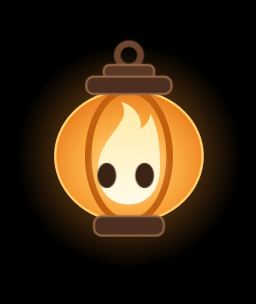
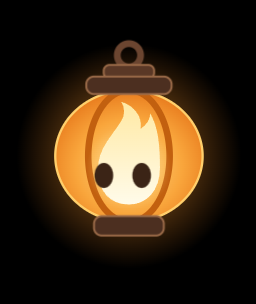
Mascot: done/error states, reserved record/delegate, wider compact glance
- docs/brand/glim-mascot.html updated by the owner: s-done, s-error
  (new "drop" element), glance-c for compact listen, and the rule that
  s-record (red) is screen recording only and s-delegate is Phase 3 only.
- port-lantern.mjs follows `animation-name:` references and keeps names
  the design already prefixed with lantern-; regenerated.
- Mapping: finished -> s-done, error -> s-error, ratelimit -> s-paused,
  sleeping -> s-idle. lanternStateFor returns AppLanternState (reserved
  states excluded); reserved states only via Lantern.showReserved with a
  typed owner; tests fail on any reserved mapping, any reserved name
  outside the mascot module, or any other showReserved caller.
- lantern-check covers all nine states (90 renders) plus done/error
  frames; screenshots refreshed (finished card via PrintWindow).
- CLAUDE.md: the reserved-state rule; prefer PrintWindow for captures.

Changed region(s): [[0.5, 0.5329, 0.625, 0.6217], [0.3438, 0.5329, 0.4688, 0.6217]]

diff --git a/windows/src/mascot/lantern-svg.ts b/windows/src/mascot/lantern-svg.ts
@@ -7,4 +7,4 @@ export const LANTERN_VIEWBOX = "0 0 100 124";
 export const LANTERN_IDS = ["lg-glow","lg-paper","lg-flame","lg-inner","lg-ribbon","lg-soft","lg-clip"] as const;
 
 /** The markup inside the design's <svg>, verbatim apart from the id suffixes. */
-export const LANTERN_MARKUP = "<defs>\r\n<radialGradient id=\"lg-glow-{ID}\" cx=\"50%\" cy=\"50%\" r=\"50%\"><stop offset=\"0\" stop-color=\"#ffb347\" stop-opacity=\"0.75\"></stop><stop offset=\"1\" stop-color=\"#ff8a1f\" stop-opacity=\"0\"></stop></radialGradient>\r\n<radialGradient id=\"lg-paper-{ID}\" cx=\"50%\" cy=\"58%\" r=\"60%\"><stop offset=\"0\" stop-color=\"#ffd884\"></stop><stop offset=\"0.6\" stop-color=\"#f9a63c\"></stop><stop offset=\"1\" stop-color=\"#e7781b\"></stop></radialGradient>\r\n<linearGradient id=\"lg-flame-{ID}\" x1=\"0\" y1=\"0\" x2=\"0\" y2=\"1\"><stop offset=\"0\" stop-color=\"#ffe9a3\"></stop><stop offset=\"1\" stop-color=\"#fffbea\"></stop></linearGradient>\r\n<radialGradient id=\"lg-inner-{ID}\" cx=\"50%\" cy=\"50%\" r=\"50%\"><stop offset=\"0\" stop-color=\"#fff3c4\" stop-opacity=\"0.9\"></stop><stop offset=\"1\" stop-color=\"#ffd27a\" stop-opacity=\"0\"></stop></radialGradient>\r\n<linearGradient id=\"lg-ribbon-{ID}\" x1=\"0\" y1=\"0\" x2=\"1\" y2=\"1\"><stop offset=\"0\" stop-color=\"#fff2c4\" stop-opacity=\"0.95\"></stop><stop offset=\"1\" stop-color=\"#ffb347\" stop-opacity=\"0.15\"></stop></linearGradient>\r\n<filter id=\"lg-soft-{ID}\" x=\"-50%\" y=\"-50%\" width=\"200%\" height=\"200%\"><feGaussianBlur stdDeviation=\"0.9\"></feGaussianBlur></filter>\r\n<clipPath id=\"lg-clip-{ID}\"><ellipse cx=\"50\" cy=\"64\" rx=\"38\" ry=\"34\"></ellipse></clipPath>\r\n</defs>\r\n<g class=\"aura\" fill=\"none\" stroke=\"url(#lg-ribbon-{ID})\" stroke-linecap=\"round\" filter=\"url(#lg-soft-{ID})\">\r\n<path d=\"M-30 44 C-6 12 28 2 50 -6 C74 -15 108 -8 128 20\" stroke-width=\"4.5\" opacity=\"0.75\"></path>\r\n<path d=\"M-34 106 C-10 90 2 122 30 128 C60 135 92 118 132 94\" stroke-width=\"5.5\" opacity=\"0.6\"></path>\r\n<path d=\"M124 38 C140 66 124 94 104 102\" stroke-width=\"3.5\" opacity=\"0.5\"></path>\r\n<path d=\"M-20 74 C-34 56 -26 38 -8 30\" stroke-width=\"3\" opacity=\"0.5\"></path>\r\n</g>\r\n<g class=\"twinkles\" fill=\"#ffe7a8\">\r\n<path class=\"tw\" transform=\"translate(-10 20) scale(1.3)\" d=\"M0 -6 L1.4 -1.4 L6 0 L1.4 1.4 L0 6 L-1.4 1.4 L-6 0 L-1.4 -1.4Z\"></path>\r\n<path class=\"tw tw2\" transform=\"translate(112 60) scale(1.5)\" d=\"M0 -6 L1.4 -1.4 L6 0 L1.4 1.4 L0 6 L-1.4 1.4 L-6 0 L-1.4 -1.4Z\"></path>\r\n<path class=\"tw tw3\" transform=\"translate(-16 92)\" d=\"M0 -6 L1.4 -1.4 L6 0 L1.4 1.4 L0 6 L-1.4 1.4 L-6 0 L-1.4 -1.4Z\"></path>\r\n<path class=\"tw tw4\" transform=\"translate(98 -6) scale(0.9)\" d=\"M0 -6 L1.4 -1.4 L6 0 L1.4 1.4 L0 6 L-1.4 1.4 L-6 0 L-1.4 -1.4Z\"></path>\r\n<circle class=\"mote\" cx=\"18\" cy=\"16\" r=\"1.6\"></circle>\r\n<circle class=\"mote m2\" cx=\"88\" cy=\"108\" r=\"1.4\"></circle>\r\n<circle class=\"mote m3\" cx=\"114\" cy=\"30\" r=\"1.2\"></circle>\r\n<circle class=\"mote m2\" cx=\"-4\" cy=\"62\" r=\"1.3\"></circle>\r\n</g>\r\n<circle class=\"glow\" cx=\"50\" cy=\"64\" r=\"58\" fill=\"url(#lg-glow-{ID})\"></circle>\r\n<circle class=\"ring\" cx=\"50\" cy=\"64\" r=\"44\" fill=\"none\" stroke=\"#ff3b30\" stroke-width=\"2\"></circle>\r\n<g class=\"tone\">\r\n<ellipse class=\"body\" cx=\"50\" cy=\"64\" rx=\"38\" ry=\"34\" fill=\"url(#lg-paper-{ID})\" stroke=\"#ffcf6b\" stroke-width=\"1.2\"></ellipse>\r\n<g class=\"ribs-h\" clip-path=\"url(#lg-clip-{ID})\" stroke=\"#d96f17\" stroke-opacity=\"0.45\" stroke-width=\"1.2\" fill=\"none\"><path d=\"M10 46 Q50 50 90 46\"></path><path d=\"M10 58 Q50 62 90 58\"></path><path d=\"M10 70 Q50 74 90 70\"></path><path d=\"M10 82 Q50 86 90 82\"></path></g>\r\n<ellipse class=\"ribs-v\" cx=\"50\" cy=\"64\" rx=\"21\" ry=\"34\" fill=\"none\" stroke=\"#c2600f\" stroke-width=\"2.4\"></ellipse>\r\n</g>\r\n<g class=\"flame-g\">\r\n<circle class=\"inner\" cx=\"50\" cy=\"70\" r=\"22\" fill=\"url(#lg-inner-{ID})\"></circle><path class=\"flame\" d=\"M50 89 C40 89 34 82 34 71 C34 60 41 54 46 46 C48 43 48 39 46 36 C53 38 57 44 56 50 C59 48 61 45 61 42 C65 49 66 58 66 70 C66 82 59 89 50 89Z\" fill=\"url(#lg-flame-{ID})\"></path><ellipse class=\"core\" cx=\"50\" cy=\"76\" rx=\"10\" ry=\"9\" fill=\"#ffffff\" opacity=\"0.45\"></ellipse>\r\n<g class=\"eyes-wrap\"><g class=\"eyes\" fill=\"#3b2416\"><ellipse class=\"eye\" cx=\"43.5\" cy=\"74\" rx=\"3.2\" ry=\"4.3\"></ellipse><ellipse class=\"eye\" cx=\"56.5\" cy=\"74\" rx=\"3.2\" ry=\"4.3\"></ellipse><circle class=\"hl\" cx=\"44.5\" cy=\"72.4\" r=\"1.1\"></circle><circle class=\"hl\" cx=\"57.5\" cy=\"72.4\" r=\"1.1\"></circle></g><g class=\"brows\" fill=\"none\" stroke=\"#3b2416\" stroke-width=\"1.1\" stroke-linecap=\"round\"><path class=\"brow brow-l\" d=\"M40.5 68 Q43.5 66.6 46.5 68\"></path><path class=\"brow brow-r\" d=\"M53.5 68 Q56.5 66.6 59.5 68\"></path></g><g class=\"happy\" fill=\"none\" stroke=\"#3b2416\" stroke-width=\"1.4\" stroke-linecap=\"round\"><path d=\"M40.6 74.5 Q43.5 71 46.4 74.5\"></path><path d=\"M53.6 74.5 Q56.5 71 59.4 74.5\"></path></g></g><g class=\"face\"><path d=\"M48.2 80 Q50 82 51.8 80\" fill=\"none\" stroke=\"#3b2416\" stroke-width=\"1.2\" stroke-linecap=\"round\"></path></g><g class=\"hands\" fill=\"#fffbea\" stroke=\"#e9a640\" stroke-width=\"0.75\"><g class=\"hand hand-l\"><ellipse cx=\"32.2\" cy=\"76.9\" rx=\"1.05\" ry=\"2.1\" transform=\"rotate(-18 32.2 76.9)\"></ellipse><ellipse cx=\"34\" cy=\"76.3\" rx=\"1.05\" ry=\"2.2\"></ellipse><ellipse cx=\"35.8\" cy=\"76.9\" rx=\"1.05\" ry=\"2.1\" transform=\"rotate(18 35.8 76.9)\"></ellipse><ellipse cx=\"37.6\" cy=\"79.4\" rx=\"1\" ry=\"1.9\" transform=\"rotate(55 37.6 79.4)\"></ellipse><circle cx=\"34\" cy=\"80.2\" r=\"3.2\"></circle></g><g class=\"hand hand-r\"><ellipse cx=\"64.2\" cy=\"76.9\" rx=\"1.05\" ry=\"2.1\" transform=\"rotate(-18 64.2 76.9)\"></ellipse><ellipse cx=\"66\" cy=\"76.3\" rx=\"1.05\" ry=\"2.2\"></ellipse><ellipse cx=\"67.8\" cy=\"76.9\" rx=\"1.05\" ry=\"2.1\" transform=\"rotate(18 67.8 76.9)\"></ellipse><ellipse cx=\"62.4\" cy=\"79.4\" rx=\"1\" ry=\"1.9\" transform=\"rotate(-55 62.4 79.4)\"></ellipse><circle cx=\"66\" cy=\"80.2\" r=\"3.2\"></circle></g></g>\r\n</g>\r\n<g class=\"embers\" fill=\"#fff1b8\"><circle cx=\"30\" cy=\"58\" r=\"1.6\"></circle><circle cx=\"70\" cy=\"62\" r=\"1.4\"></circle><circle cx=\"66\" cy=\"48\" r=\"1.1\"></circle></g>\r\n<g class=\"hw\">\r\n<circle cx=\"50\" cy=\"12\" r=\"6\" fill=\"none\" stroke=\"#6b4530\" stroke-width=\"3.5\"></circle>\r\n<rect x=\"37\" y=\"17\" width=\"26\" height=\"7\" rx=\"3\" fill=\"#5a3826\" stroke=\"#9a6a48\" stroke-width=\"1\"></rect>\r\n<rect x=\"28\" y=\"23\" width=\"44\" height=\"9\" rx=\"4\" fill=\"#4c2f20\" stroke=\"#9a6a48\" stroke-width=\"1\"></rect>\r\n<rect x=\"32\" y=\"95\" width=\"36\" height=\"10\" rx=\"4\" fill=\"#4c2f20\" stroke=\"#9a6a48\" stroke-width=\"1\"></rect>\r\n</g>\r\n<path class=\"spark\" d=\"M62 34 L63.5 38.5 L68 40 L63.5 41.5 L62 46 L60.5 41.5 L56 40 L60.5 38.5Z\" fill=\"#fff4c2\"></path>\r\n<path class=\"lift\" d=\"M50 15 L51.3 18.7 L55 20 L51.3 21.3 L50 25 L48.7 21.3 L45 20 L48.7 18.7Z\" fill=\"#fff4c2\"></path>";
+export const LANTERN_MARKUP = "<defs>\n<radialGradient id=\"lg-glow-{ID}\" cx=\"50%\" cy=\"50%\" r=\"50%\"><stop offset=\"0\" stop-color=\"#ffb347\" stop-opacity=\"0.75\"></stop><stop offset=\"1\" stop-color=\"#ff8a1f\" stop-opacity=\"0\"></stop></radialGradient>\n<radialGradient id=\"lg-paper-{ID}\" cx=\"50%\" cy=\"58%\" r=\"60%\"><stop offset=\"0\" stop-color=\"#ffd884\"></stop><stop offset=\"0.6\" stop-color=\"#f9a63c\"></stop><stop offset=\"1\" stop-color=\"#e7781b\"></stop></radialGradient>\n<linearGradient id=\"lg-flame-{ID}\" x1=\"0\" y1=\"0\" x2=\"0\" y2=\"1\"><stop offset=\"0\" stop-color=\"#ffe9a3\"></stop><stop offset=\"1\" stop-color=\"#fffbea\"></stop></linearGradient>\n<radialGradient id=\"lg-inner-{ID}\" cx=\"50%\" cy=\"50%\" r=\"50%\"><stop offset=\"0\" stop-color=\"#fff3c4\" stop-opacity=\"0.9\"></stop><stop offset=\"1\" stop-color=\"#ffd27a\" stop-opacity=\"0\"></stop></radialGradient>\n<linearGradient id=\"lg-ribbon-{ID}\" x1=\"0\" y1=\"0\" x2=\"1\" y2=\"1\"><stop offset=\"0\" stop-color=\"#fff2c4\" stop-opacity=\"0.95\"></stop><stop offset=\"1\" stop-color=\"#ffb347\" stop-opacity=\"0.15\"></stop></linearGradient>\n<filter id=\"lg-soft-{ID}\" x=\"-50%\" y=\"-50%\" width=\"200%\" height=\"200%\"><feGaussianBlur stdDeviation=\"0.9\"></feGaussianBlur></filter>\n<clipPath id=\"lg-clip-{ID}\"><ellipse cx=\"50\" cy=\"64\" rx=\"38\" ry=\"34\"></ellipse></clipPath>\n</defs>\n<g class=\"aura\" fill=\"none\" stroke=\"url(#lg-ribbon-{ID})\" stroke-linecap=\"round\" filter=\"url(#lg-soft-{ID})\">\n<path d=\"M-30 44 C-6 12 28 2 50 -6 C74 -15 108 -8 128 20\" stroke-width=\"4.5\" opacity=\"0.75\"></path>\n<path d=\"M-34 106 C-10 90 2 122 30 128 C60 135 92 118 132 94\" stroke-width=\"5.5\" opacity=\"0.6\"></path>\n<path d=\"M124 38 C140 66 124 94 104 102\" stroke-width=\"3.5\" opacity=\"0.5\"></path>\n<path d=\"M-20 74 C-34 56 -26 38 -8 30\" stroke-width=\"3\" opacity=\"0.5\"></path>\n</g>\n<g class=\"twinkles\" fill=\"#ffe7a8\">\n<path class=\"tw\" transform=\"translate(-10 20) scale(1.3)\" d=\"M0 -6 L1.4 -1.4 L6 0 L1.4 1.4 L0 6 L-1.4 1.4 L-6 0 L-1.4 -1.4Z\"></path>\n<path class=\"tw tw2\" transform=\"translate(112 60) scale(1.5)\" d=\"M0 -6 L1.4 -1.4 L6 0 L1.4 1.4 L0 6 L-1.4 1.4 L-6 0 L-1.4 -1.4Z\"></path>\n<path class=\"tw tw3\" transform=\"translate(-16 92)\" d=\"M0 -6 L1.4 -1.4 L6 0 L1.4 1.4 L0 6 L-1.4 1.4 L-6 0 L-1.4 -1.4Z\"></path>\n<path class=\"tw tw4\" transform=\"translate(98 -6) scale(0.9)\" d=\"M0 -6 L1.4 -1.4 L6 0 L1.4 1.4 L0 6 L-1.4 1.4 L-6 0 L-1.4 -1.4Z\"></path>\n<circle class=\"mote\" cx=\"18\" cy=\"16\" r=\"1.6\"></circle>\n<circle class=\"mote m2\" cx=\"88\" cy=\"108\" r=\"1.4\"></circle>\n<circle class=\"mote m3\" cx=\"114\" cy=\"30\" r=\"1.2\"></circle>\n<circle class=\"mote m2\" cx=\"-4\" cy=\"62\" r=\"1.3\"></circle>\n</g>\n<circle class=\"glow\" cx=\"50\" cy=\"64\" r=\"58\" fill=\"url(#lg-glow-{ID})\"></circle>\n<circle class=\"ring\" cx=\"50\" cy=\"64\" r=\"44\" fill=\"none\" stroke=\"#ff3b30\" stroke-width=\"2\"></circle>\n<g class=\"tone\">\n<ellipse class=\"body\" cx=\"50\" cy=\"64\" rx=\"38\" ry=\"34\" fill=\"url(#lg-paper-{ID})\" stroke=\"#ffcf6b\" stroke-width=\"1.2\"></ellipse>\n<g class=\"ribs-h\" clip-path=\"url(#lg-clip-{ID})\" stroke=\"#d96f17\" stroke-opacity=\"0.45\" stroke-width=\"1.2\" fill=\"none\"><path d=\"M10 46 Q50 50 90 46\"></path><path d=\"M10 58 Q50 62 90 58\"></path><path d=\"M10 70 Q50 74 90 70\"></path><path d=\"M10 82 Q50 86 90 82\"></path></g>\n<ellipse class=\"ribs-v\" cx=\"50\" cy=\"64\" rx=\"21\" ry=\"34\" fill=\"none\" stroke=\"#c2600f\" stroke-width=\"2.4\"></ellipse>\n</g>\n<g class=\"flame-g\">\n<circle class=\"inner\" cx=\"50\" cy=\"70\" r=\"22\" fill=\"url(#lg-inner-{ID})\"></circle><path class=\"flame\" d=\"M50 89 C40 89 34 82 34 71 C34 60 41 54 46 46 C48 43 48 39 46 36 C53 38 57 44 56 50 C59 48 61 45 61 42 C65 49 66 58 66 70 C66 82 59 89 50 89Z\" fill=\"url(#lg-flame-{ID})\"></path><ellipse class=\"core\" cx=\"50\" cy=\"76\" rx=\"10\" ry=\"9\" fill=\"#ffffff\" opacity=\"0.45\"></ellipse>\n<g class=\"eyes-wrap\"><g class=\"eyes\" fill=\"#3b2416\"><ellipse class=\"eye\" cx=\"43.5\" cy=\"74\" rx=\"3.2\" ry=\"4.3\"></ellipse><ellipse class=\"eye\" cx=\"56.5\" cy=\"74\" rx=\"3.2\" ry=\"4.3\"></ellipse><circle class=\"hl\" cx=\"44.5\" cy=\"72.4\" r=\"1.1\"></circle><circle class=\"hl\" cx=\"57.5\" cy=\"72.4\" r=\"1.1\"></circle></g><g class=\"brows\" fill=\"none\" stroke=\"#3b2416\" stroke-width=\"1.1\" stroke-linecap=\"round\"><path class=\"brow brow-l\" d=\"M40.5 68 Q43.5 66.6 46.5 68\"></path><path class=\"brow brow-r\" d=\"M53.5 68 Q56.5 66.6 59.5 68\"></path></g><g class=\"happy\" fill=\"none\" stroke=\"#3b2416\" stroke-width=\"1.4\" stroke-linecap=\"round\"><path d=\"M40.6 74.5 Q43.5 71 46.4 74.5\"></path><path d=\"M53.6 74.5 Q56.5 71 59.4 74.5\"></path></g></g><g class=\"face\"><path d=\"M48.2 80 Q50 82 51.8 80\" fill=\"none\" stroke=\"#3b2416\" stroke-width=\"1.2\" stroke-linecap=\"round\"></path></g><g class=\"hands\" fill=\"#fffbea\" stroke=\"#e9a640\" stroke-width=\"0.75\"><g class=\"hand hand-l\"><ellipse cx=\"32.2\" cy=\"76.9\" rx=\"1.05\" ry=\"2.1\" transform=\"rotate(-18 32.2 76.9)\"></ellipse><ellipse cx=\"34\" cy=\"76.3\" rx=\"1.05\" ry=\"2.2\"></ellipse><ellipse cx=\"35.8\" cy=\"76.9\" rx=\"1.05\" ry=\"2.1\" transform=\"rotate(18 35.8 76.9)\"></ellipse><ellipse cx=\"37.6\" cy=\"79.4\" rx=\"1\" ry=\"1.9\" transform=\"rotate(55 37.6 79.4)\"></ellipse><circle cx=\"34\" cy=\"80.2\" r=\"3.2\"></circle></g><g class=\"hand hand-r\"><ellipse cx=\"64.2\" cy=\"76.9\" rx=\"1.05\" ry=\"2.1\" transform=\"rotate(-18 64.2 76.9)\"></ellipse><ellipse cx=\"66\" cy=\"76.3\" rx=\"1.05\" ry=\"2.2\"></ellipse><ellipse cx=\"67.8\" cy=\"76.9\" rx=\"1.05\" ry=\"2.1\" transform=\"rotate(18 67.8 76.9)\"></ellipse><ellipse cx=\"62.4\" cy=\"79.4\" rx=\"1\" ry=\"1.9\" transform=\"rotate(-55 62.4 79.4)\"></ellipse><circle cx=\"66\" cy=\"80.2\" r=\"3.2\"></circle></g></g>\n</g>\n<g class=\"embers\" fill=\"#fff1b8\"><circle cx=\"30\" cy=\"58\" r=\"1.6\"></circle><circle cx=\"70\" cy=\"62\" r=\"1.4\"></circle><circle cx=\"66\" cy=\"48\" r=\"1.1\"></circle></g>\n<g class=\"hw\">\n<circle cx=\"50\" cy=\"12\" r=\"6\" fill=\"none\" stroke=\"#6b4530\" stroke-width=\"3.5\"></circle>\n<rect x=\"37\" y=\"17\" width=\"26\" height=\"7\" rx=\"3\" fill=\"#5a3826\" stroke=\"#9a6a48\" stroke-width=\"1\"></rect>\n<rect x=\"28\" y=\"23\" width=\"44\" height=\"9\" rx=\"4\" fill=\"#4c2f20\" stroke=\"#9a6a48\" stroke-width=\"1\"></rect>\n<rect x=\"32\" y=\"95\" width=\"36\" height=\"10\" rx=\"4\" fill=\"#4c2f20\" stroke=\"#9a6a48\" stroke-width=\"1\"></rect>\n</g>\n<path class=\"spark\" d=\"M62 34 L63.5 38.5 L68 40 L63.5 41.5 L62 46 L60.5 41.5 L56 40 L60.5 38.5Z\" fill=\"#fff4c2\"></path>\n<path class=\"lift\" d=\"M50 15 L51.3 18.7 L55 20 L51.3 21.3 L50 25 L48.7 21.3 L45 20 L48.7 18.7Z\" fill=\"#fff4c2\"></path><path class=\"drop\" d=\"M64 56 C64 56 60.6 60.4 60.6 62.6 C60.6 64.5 62.1 66 64 66 C65.9 66 67.4 64.5 67.4 62.6 C67.4 60.4 64 56 64 56Z\" fill=\"#cfe9ff\" stroke=\"#7fb4e0\" stroke-width=\"0.6\"></path>";

diff --git a/docs/brand/glim-mascot.html b/docs/brand/glim-mascot.html
@@ -1,9 +1,12 @@
 <!doctype html>
 <html lang="en"><head><meta charset="utf-8"><title>Glim mascot (approved)</title>
 <!--
-Glim mascot - approved design, reference implementation.
-- One SVG; state = one class on the <svg>: s-idle, s-listen, s-think, s-suggest, s-record, s-paused, s-delegate
-- Add class "compact" for sizes under 48px (hides ribs, embers, face details, hands, brows; enlarges eyes).
+Glim mascot - approved design, reference implementation. Source of truth.
+- One SVG; state = one class on the <svg>: s-idle, s-listen, s-think, s-suggest, s-record, s-paused, s-delegate, s-done, s-error
+- RED IS RESERVED FOR s-record (screen recording). No other app state may map to s-record.
+- s-delegate is reserved for Phase 3 (data leaving the machine after approval). Do not use it for "finished"; use s-done.
+- s-error = dim, droopy, worried brows, sweat drop. Never red.
+- Add class "compact" for sizes under 48px (hides ribs, embers, face details, hands, brows; enlarges eyes; wider listen glance).
 - The "aura" and "twinkles" groups (ribbons + sparkles) are for large/icon contexts only; remove them in the notch sprite.
 - Respects prefers-reduced-motion.
 -->
@@ -84,6 +87,24 @@ button{font:inherit;padding:8px 14px;border-radius:999px;border:1px solid #9a6a4
 .mote{transform-box:fill-box;animation:float 5s ease-in-out infinite}
 .m2{animation-delay:1.6s}.m3{animation-delay:3.2s}
 @keyframes float{0%{opacity:0;transform:translateY(6px)}30%{opacity:.9}100%{opacity:0;transform:translateY(-14px)}}
+.lantern .drop{opacity:0;transform-box:fill-box;transform-origin:50% 0}
+.s-error .tone{filter:saturate(.55) brightness(.8)}
+.s-error .glow{opacity:.3}
+.s-error .flame-g{animation:lantern-shiver 2.2s ease-in-out infinite}
+@keyframes lantern-shiver{0%,100%{transform:scale(1,.86)}50%{transform:scale(.97,.82)}}
+.s-error .eye{transform:scale(.85,.8)}
+.s-error .brows{opacity:1}
+.s-error .brow-l{transform:translateY(-1.2px) rotate(-14deg)}
+.s-error .brow-r{transform:translateY(-1.2px) rotate(14deg)}
+.s-error .drop{animation:lantern-sweat 2.6s ease-in infinite}
+@keyframes lantern-sweat{0%{opacity:0;transform:translateY(-2px)}20%{opacity:1}75%{opacity:1;transform:translateY(5px)}100%{opacity:0;transform:translateY(7px)}}
+.s-done .glow{opacity:1}
+.s-done .eye,.s-done .hl{opacity:0}
+.s-done .happy{opacity:1}
+.s-done .flame-g{animation:lantern-hop 1.3s ease-in-out infinite}
+@keyframes lantern-hop{0%,100%{transform:translateY(0) scale(1)}35%{transform:translateY(-3px) scale(1.03,.97)}60%{transform:translateY(0) scale(.98,1.03)}}
+.compact.s-listen .eyes{animation-name:glance-c}
+@keyframes glance-c{0%,40%{transform:translateX(0) scaleY(1)}48%{transform:translateX(-2.6px) scaleY(1)}68%{transform:translateX(2.4px) scaleY(1)}86%{transform:translateX(0) scaleY(1)}90%{transform:translateX(0) scaleY(.1)}94%,100%{transform:translateX(0) scaleY(1)}}
 @media (prefers-reduced-motion: reduce){.lantern *{animation:none !important}}
 
 </style></head><body>
@@ -132,10 +153,10 @@ button{font:inherit;padding:8px 14px;border-radius:999px;border:1px solid #9a6a4
 <rect x="32" y="95" width="36" height="10" rx="4" fill="#4c2f20" stroke="#9a6a48" stroke-width="1"></rect>
 </g>
 <path class="spark" d="M62 34 L63.5 38.5 L68 40 L63.5 41.5 L62 46 L60.5 41.5 L56 40 L60.5 38.5Z" fill="#fff4c2"></path>
-<path class="lift" d="M50 15 L51.3 18.7 L55 20 L51.3 21.3 L50 25 L48.7 21.3 L45 20 L48.7 18.7Z" fill="#fff4c2"></path>
+<path class="lift" d="M50 15 L51.3 18.7 L55 20 L51.3 21.3 L50 25 L48.7 21.3 L45 20 L48.7 18.7Z" fill="#fff4c2"></path><path class="drop" d="M64 56 C64 56 60.6 60.4 60.6 62.6 C60.6 64.5 62.1 66 64 66 C65.9 66 67.4 64.5 67.4 62.6 C67.4 60.4 64 56 64 56Z" fill="#cfe9ff" stroke="#7fb4e0" stroke-width="0.6"></path>
 </svg>
-<div class="controls"><button onclick="setState('s-idle')">idle</button><button onclick="setState('s-listen')">listen</button><button onclick="setState('s-think')">think</button><button onclick="setState('s-suggest')">suggest</button><button onclick="setState('s-record')">record</button><button onclick="setState('s-paused')">paused</button><button onclick="setState('s-delegate')">delegate</button><button onclick="document.getElementById('glim').classList.toggle('compact')">toggle compact</button></div>
+<div class="controls"><button onclick="setState('s-idle')">idle</button><button onclick="setState('s-listen')">listen</button><button onclick="setState('s-think')">think</button><button onclick="setState('s-suggest')">suggest</button><button onclick="setState('s-record')">record</button><button onclick="setState('s-paused')">paused</button><button onclick="setState('s-delegate')">delegate</button><button onclick="setState('s-done')">done</button><button onclick="setState('s-error')">error</button><button onclick="document.getElementById('glim').classList.toggle('compact')">toggle compact</button></div>
 <script>
-function setState(s){const el=document.getElementById('glim');el.classList.remove('s-idle','s-listen','s-think','s-suggest','s-record','s-paused','s-delegate');el.classList.add(s);}
+function setState(s){const el=document.getElementById('glim');el.classList.remove('s-idle','s-listen','s-think','s-suggest','s-record','s-paused','s-delegate','s-done','s-error');el.classList.add(s);}
 </script>
 </body></html>

diff --git a/windows/src/mascot/lantern.ts b/windows/src/mascot/lantern.ts
@@ -3,7 +3,7 @@
 // scripts/port-lantern.mjs (lantern-svg.ts, lantern.css); this module only
 // instantiates them. Its look is the design's: don't restyle it here.
 //
-// - State is one class on the <svg>: s-idle … s-delegate. CSS transitions and
+// - State is one class on the <svg>: s-idle … s-error. CSS transitions and
 //   animations do all the motion; changing state is swapping that class.
 // - "compact" is added below COMPACT_BELOW_PX of rendered height (fewer
 //   details, bigger eyes), as the design specifies.
@@ -15,8 +15,30 @@
 import { LANTERN_IDS, LANTERN_MARKUP, LANTERN_VIEWBOX } from "./lantern-svg";
 import type { BotStateName } from "../core/layout";
 
-export const LANTERN_STATES = ["idle", "listen", "think", "suggest", "record", "paused", "delegate"] as const;
+export const LANTERN_STATES = [
+  "idle", "listen", "think", "suggest", "record", "paused", "delegate", "done", "error",
+] as const;
 export type LanternState = (typeof LANTERN_STATES)[number];
+
+/**
+ * States the design reserves, and the one feature allowed to show each
+ * (docs/brand/glim-mascot.html, CLAUDE.md): red s-record is screen recording
+ * only; s-delegate is Phase 3 data leaving the machine only. Neither feature
+ * exists yet, so no app state maps to them. They can only be shown through
+ * `Lantern.showReserved`, which names its owner; tests/lantern.test.mjs checks
+ * who calls it.
+ */
+export const RESERVED_LANTERN_STATES = {
+  record: "screen-recording",
+  delegate: "phase3-delegation",
+} as const;
+export type ReservedLanternState = keyof typeof RESERVED_LANTERN_STATES;
+/** Every state an app state may map to. */
+export type AppLanternState = Exclude<LanternState, ReservedLanternState>;
+
+export function isReservedLanternState(s: LanternState): s is ReservedLanternState {
+  return s in RESERVED_LANTERN_STATES;
+}
 
 export type LanternDetail = "full" | "notch";
 
@@ -63,15 +85,24 @@ export function lanternClass(state: LanternState, heightPx: number): string {
  * - idle → s-idle in the notch, s-listen when the island is open
  * - working, thinking, searching → s-think (an agent is busy)
  * - approval, question → s-suggest (waiting for your answer)
- * - finished → s-delegate (happy eyes, both hands up: done)
- * - error → s-record (the red hue and pulsing ring are the design's only alert)
- * - ratelimit, sleeping → s-paused (lantern dimmed, flame out)
+ * - finished → s-done (happy eyes, a hop)
+ * - error → s-error (dim, droopy, worried brows, a sweat drop; never red)
+ * - ratelimit → s-paused: the agent hit its usage limit and can't work until it
+ *   resets — "not working right now", dimmed with the flame out
+ * - sleeping → s-idle: nothing is blocked, Glim is just resting (only the
+ *   desktop character ever sets it, after a stretch with no agent activity);
+ *   s-idle's dozing eyes and slow breathing are that
  * - dizzy (the shake gag) → s-think (the swaying flame)
+ *
+ * Never s-record or s-delegate: those belong to features, not app states
+ * (RESERVED_LANTERN_STATES), and the return type excludes them.
  */
-export function lanternStateFor(state: BotStateName, open: boolean): LanternState {
+export function lanternStateFor(state: BotStateName, open: boolean): AppLanternState {
   switch (state) {
     case "idle":
       return open ? "listen" : "idle";
+    case "sleeping":
+      return "idle";
     case "working":
     case "thinking":
     case "searching":
@@ -81,11 +112,10 @@ export function lanternStateFor(state: BotStateName, open: boolean): LanternStat
     case "question":
       return "suggest";
     case "finished":
-      return "delegate";
+      return "done";
     case "error":
-      return "record";
+      return "error";
     case "ratelimit":
-    case "sleeping":
       return "paused";
   }
 }
@@ -100,7 +130,7 @@ export class Lantern {
   private stateName: LanternState;
   private heightPx = 0;
 
-  constructor(opts: { detail: LanternDetail; state?: LanternState; heightPx?: number }) {
+  constructor(opts: { detail: LanternDetail; state?: AppLanternState; heightPx?: number }) {
     this.uid = `g${++instances}`;
     this.stateName = opts.state ?? "idle";
     this.el = document.createElementNS(SVG_NS, "svg");
@@ -114,7 +144,22 @@ export class Lantern {
     return this.stateName;
   }
 
-  set state(next: LanternState) {
+  /** Shows an app state. Reserved states can't be passed here. */
+  show(next: AppLanternState) {
+    this.set(next);
+  }
+
+  /**
+   * Shows a reserved state, for its owner only: `record` for screen recording,
+   * `delegate` for Phase 3 delegation, either for the dev preview switch
+   * (`--mascot-state`). tests/lantern.test.mjs fails on any other caller.
+   */
+  showReserved<S extends ReservedLanternState>(state: S, owner: (typeof RESERVED_LANTERN_STATES)[S] | "dev-preview") {
+    void owner;
+    this.set(state);
+  }
+
+  private set(next: LanternState) {
     if (next === this.stateName) return;
     this.stateName = next;
     this.apply();

diff --git a/windows/src/mascot/lantern.css b/windows/src/mascot/lantern.css
@@ -74,4 +74,22 @@
 .lantern .m2{animation-delay:1.6s}
 .lantern .m3{animation-delay:3.2s}
 @keyframes lantern-float{0%{opacity:0;transform:translateY(6px)}30%{opacity:.9}100%{opacity:0;transform:translateY(-14px)}}
+.lantern .drop{opacity:0;transform-box:fill-box;transform-origin:50% 0}
+.lantern.s-error .tone{filter:saturate(.55) brightness(.8)}
+.lantern.s-error .glow{opacity:.3}
+.lantern.s-error .flame-g{animation:lantern-shiver 2.2s ease-in-out infinite}
+@keyframes lantern-shiver{0%,100%{transform:scale(1,.86)}50%{transform:scale(.97,.82)}}
+.lantern.s-error .eye{transform:scale(.85,.8)}
+.lantern.s-error .brows{opacity:1}
+.lantern.s-error .brow-l{transform:translateY(-1.2px) rotate(-14deg)}
+.lantern.s-error .brow-r{transform:translateY(-1.2px) rotate(14deg)}
+.lantern.s-error .drop{animation:lantern-sweat 2.6s ease-in infinite}
+@keyframes lantern-sweat{0%{opacity:0;transform:translateY(-2px)}20%{opacity:1}75%{opacity:1;transform:translateY(5px)}100%{opacity:0;transform:translateY(7px)}}
+.lantern.s-done .glow{opacity:1}
+.lantern.s-done .eye,.lantern.s-done .hl{opacity:0}
+.lantern.s-done .happy{opacity:1}
+.lantern.s-done .flame-g{animation:lantern-hop 1.3s ease-in-out infinite}
+@keyframes lantern-hop{0%,100%{transform:translateY(0) scale(1)}35%{transform:translateY(-3px) scale(1.03,.97)}60%{transform:translateY(0) scale(.98,1.03)}}
+.lantern.compact.s-listen .eyes{animation-name:lantern-glance-c}
+@keyframes lantern-glance-c{0%,40%{transform:translateX(0) scaleY(1)}48%{transform:translateX(-2.6px) scaleY(1)}68%{transform:translateX(2.4px) scaleY(1)}86%{transform:translateX(0) scaleY(1)}90%{transform:translateX(0) scaleY(.1)}94%,100%{transform:translateX(0) scaleY(1)}}
 @media (prefers-reduced-motion: reduce){.lantern *{animation:none !important}}

diff --git a/windows/src/island/island.ts b/windows/src/island/island.ts
@@ -28,6 +28,7 @@ import {
   LANTERN_DRAWN_TOP,
   LANTERN_HEIGHT_PER_DIAMETER,
   Lantern,
+  isReservedLanternState,
   lanternStateFor,
   type LanternState,
 } from "../mascot/lantern";
@@ -962,7 +963,9 @@ export class Island {
     el.style.left = `${this.botCx.value - 50 * unit}px`;
     el.style.top = `${this.botCy.value + diameter / 2 - LANTERN_DRAWN_BOTTOM * unit}px`;
     this.lantern.setHeight(hPx);
-    this.lantern.state = this.forcedLantern ?? lanternStateFor(this.engine.state, State.mode === "expanded");
+    const forced = this.forcedLantern;
+    if (forced && isReservedLanternState(forced)) this.lantern.showReserved(forced, "dev-preview");
+    else this.lantern.show(forced ?? lanternStateFor(this.engine.state, State.mode === "expanded"));
   }
 
   /** BotCanvasView.lookX / lookY — tanh of the distance to the bot. */

diff --git a/windows/src-tauri/src/lib.rs b/windows/src-tauri/src/lib.rs
@@ -543,7 +543,7 @@ fn open_settings_window(app: AppHandle) {
     show_settings_window(&app);
 }
 
-/// `glim.exe --mascot-state <idle|listen|think|suggest|record|paused|delegate|auto>`,
+/// `glim.exe --mascot-state <idle|listen|think|suggest|record|paused|delegate|done|error|auto>`,
 /// forwarded to the running Glim by the single-instance plugin: shows the
 /// lantern in that state (`auto` follows the app again). A dev tool for
 /// checking each state without touching the mouse or keyboard, so it only works

diff --git a/PROJECT_STATUS.md b/PROJECT_STATUS.md
@@ -88,6 +88,8 @@ Done in the island's notch on branch `mascot-lantern` (2026-10-09). Source of tr
   - `windows/src/mascot/lantern.ts` is the component (`new Lantern({ detail, state })`): state = one class `s-<state>` on the `<svg>`; `compact` below 48 px of rendered height; detail `"notch"` drops the `aura` and `twinkles` groups, `"full"` keeps them (large contexts: settings, onboarding, about); gradient/filter/clipPath ids get a per-instance suffix; the design's `prefers-reduced-motion` rule is kept.
   - What the port changes, and only this: page-level CSS dropped; selectors the design left unscoped are scoped to `.lantern` (same relative order and specificity inside the lantern); keyframes prefixed `lantern-` (the app already had a global `@keyframes pulse`).
   - Wired in `windows/src/island/island.ts` (`drawBot`): the lantern replaces the placeholder orb, drawn 1.2× the old orb's diameter tall with its base on the orb's bottom edge (24 px in the 26 px notch pill → compact; 53–79 px in the expanded cards → full detail minus aura/twinkles). The engine (`mochi/engine.ts`) still runs for its timers but no longer draws in the island.
+- **Nine states** (design updated 2026-10-09): `s-idle`, `s-listen`, `s-think`, `s-suggest`, `s-record`, `s-paused`, `s-delegate`, `s-done` (happy eyes, a hop), `s-error` (dim, droopy, worried brows, a sweat drop — never red). Compact uses a wider listen glance (`glance-c`).
+- **Reserved states — never reuse them for anything else** (design file header, CLAUDE.md): red `s-record` = screen recording only; `s-delegate` = Phase 3 data leaving the machine only. Neither feature exists yet, so no app state maps to them. Enforced three ways: `lanternStateFor` returns `AppLanternState` (reserved states excluded, so `tsc` rejects a mapping to them); the only way to show one is `Lantern.showReserved(state, owner)` with a typed owner (`"screen-recording"` / `"phase3-delegation"`, or `"dev-preview"` for the dev switch); `tests/lantern.test.mjs` fails if any island state (read from the `BotStateName` union) maps to one, if a reserved state name appears in `src/` outside the mascot module, or if anything but the allowed callers calls `showReserved`. When the recording or delegation feature lands, add its file to `SHOWS_RESERVED` in that test.
 - **State mapping** (`lanternStateFor`, island state → lantern):
 
   | Island state | Lantern |
@@ -96,20 +98,22 @@ Done in the island's notch on branch `mascot-lantern` (2026-10-09). Source of tr
   | `idle` (island open) | `s-listen` |
   | `working`, `thinking`, `searching` | `s-think` |
   | `approval`, `question` (waiting for your answer) | `s-suggest` |
-  | `finished` | `s-delegate` (happy eyes, hands up) |
-  | `error` | `s-record` (the design's only red/alert look) |
-  | `ratelimit`, `sleeping` | `s-paused` |
+  | `finished` | `s-done` |
+  | `error` | `s-error` |
+  | `ratelimit` | `s-paused` — the agent hit its usage limit and can't work until it resets: "not working right now" |
+  | `sleeping` | `s-idle` — only the desktop character sets it, after a stretch with no agent activity; nothing is blocked, Glim is resting, which is s-idle's dozing look |
   | `dizzy` (shake gag) | `s-think` |
 
-  Not mapped: the emotes (love, surprised, proud, wink, yawn, happy, annoyed), the integration/plan body tint (`engine.bodyColor`), and the drop sequence's morph — the lantern ignores them. `s-record` and `s-delegate` keep their design names for their Phase 1/3 meanings; `error` and `finished` borrow them until those phases exist.
+  Not mapped: the emotes (love, surprised, proud, wink, yawn, happy, annoyed), the integration/plan body tint (`engine.bodyColor`), and the drop sequence's morph — the lantern ignores them.
 - **Still the placeholder** (not the notch, not in this PR): the desktop character window (`desktop/`), the per-session mini bots (`mochi/minibots.ts`), the greeting (`mochi/greeting.ts`), the drop sequence (`upload/canvas.ts`) and the recap image (`recap/share.ts`).
-- **Dev-only state switch:** start Glim with `GLIM_DEV=1` in its environment, then `glim.exe --mascot-state <idle|listen|think|suggest|record|paused|delegate|auto>` forwards to the running instance (single-instance plugin) and shows that state in the notch; `auto` follows the app again. Ignored without `GLIM_DEV=1`. No hotkey.
-- **Checks:** `npm run check:lantern` (`windows/dev/lantern-check.mjs`, headless Edge over the DevTools protocol, also in `windows-ci.yml`): 70 renders (7 states × full/compact × 5 frozen instants) compared with the design page pixel by pixel (≤ 2/255 rounding allowed, every exception printed; a visible change fails); `prefers-reduced-motion: reduce` emulated through the protocol stops every animation in every state; notch-size frames of the blinks and glances. Mutation-tested: a changed colour and a deleted reduced-motion rule both fail.
+- **Dev-only state switch:** start Glim with `GLIM_DEV=1` in its environment, then `glim.exe --mascot-state <idle|listen|think|suggest|record|paused|delegate|done|error|auto>` forwards to the running instance (single-instance plugin) and shows that state in the notch; `auto` follows the app again. Ignored without `GLIM_DEV=1`. No hotkey.
+- **Checks:** `npm run check:lantern` (`windows/dev/lantern-check.mjs`, headless Edge over the DevTools protocol, also in `windows-ci.yml`): 90 renders (9 states × full/compact × 5 frozen instants) compared with the design page pixel by pixel (≤ 2/255 rounding allowed, every exception printed; a visible change fails); `prefers-reduced-motion: reduce` emulated through the protocol stops every animation in every state; notch-size frames of the blinks and glances. Mutation-tested: a changed colour and a deleted reduced-motion rule both fail.
 
 ### Mascot verification (2026-10-09)
-- In the running app, each state forced with `--mascot-state`, cropped to Glim's pill: `docs/verification/mascot/notch-<state>@4x.png`. All seven distinct; cap and handle ring stay visible on the black pill (the ring, `#6b4530` with no outline, is the dimmest part but reads).
-- Unforced, with a real `claude -p` session hooked to Glim: `s-think` in the notch mid-session (`auto-working@4x.png`), then the expanded "Session finished" card with the full-detail lantern in `s-delegate` (`auto-finished-expanded.png`).
-- Notch-size frames (24×30 px drawn) from the browser check: blinks read clearly (`frame-listen-blink@8x.png`, `frame-record-blink@8x.png`); the listen glance moves the eyes ~0.6 px at this size and is barely perceptible (`frame-listen-glance-*@8x.png`); the think "ponder" shift (~1.2 px) reads.
+- In the running app, each state forced with `--mascot-state`, cropped to Glim's pill: `docs/verification/mascot/notch-<state>@4x.png` (all nine). Cap and handle ring stay visible on the black pill (the ring, `#6b4530` with no outline, is the dimmest part but reads). `s-error`'s sweat drop shows in the app (`app-error-sweat-lantern@8x.png`).
+- Compact listen glance (after the design's `glance-c`): measured in the running app from a burst of notch captures, the eyes' darkness-weighted centre moves −0.75 px then +0.76 px (~1.5 px swing) and blinks; `app-glance-{rest,left,right}-lantern@8x.png`. Before `glance-c` the swing was ~0.6 px and barely read.
+- Unforced, with a real `claude -p` session hooked to Glim: `s-think` in the notch mid-session (`auto-working@4x.png`), then the expanded "Session finished" card with the lantern in `s-done` (`auto-finished-expanded.png`).
+- Browser check: 90/90 renders byte-identical to the design; reduced motion stops every animation in all 18 state/size pairs; notch-size frames in `frame-*@8x.png`.
 
 ## Removed in Phase 0a
 - **Network paths:** Anthropic Messages API (`api.anthropic.com`, with web search), OpenAI / Google AI / OpenRouter (`openai_compat.rs`), the "any OpenAI-compatible server" option that could point anywhere; GitHub, Stripe, Vercel, Notion, Resend, Cal.com and n8n pollers (`integrations.rs`, `github.rs`); the Codex plan pill, which spawned `codex app-server` (it asks OpenAI for the limits); the domain-directory display-name lookup (`GetUserNameExW`); "open in browser" for arbitrary URLs (now loopback only). No updater existed upstream; none was added.
@@ -148,4 +152,5 @@ Committed as provided by the owner, untouched: `glim-mascot.html` (mascot spec, 
 - **`cargo test` writes to the real data folder (2026-10-09).** Some tests create `%LOCALAPPDATA%\<data folder>\inbox` under the real profile. Before the rename they touched `Coucou\inbox`, after it `Glim\inbox`, so on a dev machine the migration's "both folders exist" path is the normal case, not an edge case. The first version of the merge left same-named subfolders behind; it now merges them recursively. Fixed at the root in the same PR: under `cargo test`, `platform::data_base` points both data folders at a scratch folder per test thread, `tests_never_use_the_real_data_folders` asserts it, and `windows-ci.yml` fails if any `Glim`/`Coucou` data folder exists after the tests. Checked locally by hashing every file in the real folders before and after `cargo test` + `npm test`: identical. The test-created empty `inbox\` was removed.
 - **A crate rename breaks CI silently until it runs (2026-10-09).** `windows-ci.yml` runs `cargo build --release -p coucou-hook`; renaming the crate would have failed CI on the first push. Search `.github/` as well as the source for an identifier you rename.
 - **`gen-strings --check` reports "out of date" on a fresh Windows checkout (2026-10-09).** With `core.autocrlf=true`, Git checks `strings.json` out with CRLF and the generator writes LF, so the check fails although the content is identical (`git diff` is empty). Not caused by any change; CI doesn't run that check.
+- **A screen-region crop can catch other windows (2026-10-09).** Cropping the island from a screen capture by finding its black pixels broke when the window behind the island was dark too: the "pill" ran the full capture width, so the crop could have held another app's pixels. Those captures were deleted unsaved. Fix: capture Glim's window with `PrintWindow(PW_RENDERFULLCONTENT)`, which renders only Glim's own pixels (transparent parts come out black), and size-check any crop before keeping it.
 - **Screenshots of a transparent window show what's behind it (2026-10-09).** The island's window is mostly transparent, so capturing its rectangle captured other apps. Crop to the drawn panel, not the window rect.

diff --git a/CLAUDE.md b/CLAUDE.md
@@ -9,8 +9,9 @@
 - Verification: a tool reporting success is not proof. After any build, confirm the output reflects the change (rebuild, check exe timestamp/size/hash, launch it). Prefer hands-on checks in real apps over passing unit tests alone.
 - Privacy (this is the product): all outbound network access goes through a single choke-point module in Rust (created in Phase 0). Phases 0–2 allow localhost only. Phase 3 may add gated exceptions only through that module, behind a per-task approval UI. No other code path may make network calls or spawn networked processes. Any change adding a network call, telemetry-bearing dependency, or updater must be called out in the PR description. Enforcement must be verified empirically (attempt a blocked request, confirm it fails), not trusted from config.
 - The choke point is `windows/src-tauri/src/net/mod.rs` (`net::request`, allowlist `net::ALLOWED_HOSTS`). Nothing else may use `reqwest` or open a socket — a test enforces it. Every webview window must be created with `BROWSER_ARGS` (`lib.rs`), which also switches off WebView2's own background traffic; check the whole process tree (`glim.exe` + its `msedgewebview2.exe` children), not just `glim.exe`, when verifying.
-- Privacy: screenshots during testing are cropped to the app's own window before saving. Never save full-screen captures. The island's window is mostly transparent: crop to the drawn panel, not the window rectangle, or other apps show through.
+- Privacy: screenshots during testing are cropped to the app's own window before saving. Never save full-screen captures. Prefer `PrintWindow` on Glim's own window over cropping a screen capture: a crop found by colour can run into other windows. The island's window is mostly transparent: crop to the drawn panel, not the window rectangle, or other apps show through.
 - Never send mouse clicks, scrolls, or keystrokes to the real desktop unless the owner has confirmed in chat that they're away from the keyboard. Before any UI automation, take one screenshot; if any window other than Glim is in front, stop and ask. Prefer non-invasive testing (unit tests, local fake servers, WebDriver/tauri-driver against the app) over driving the real mouse.
+- Red mascot state (s-record) = screen recording only. s-delegate = Phase 3 data leaving the machine only. Never reuse them for other states.
 - The mascot is ported from `docs/brand/glim-mascot.html`, never redrawn: change the design file and run `node scripts/port-lantern.mjs` (in `windows/`); don't edit `src/mascot/lantern.css` or `lantern-svg.ts` by hand.
 - If a plan step turns out wrong, amend the plan doc with a warning note — don't silently fix code around it.
 - The Coucou name, the Mochi character, and the sounds are © Louis Raillé, not MIT (see `LICENSE-ASSETS.md`, `NOTICE.md`) — never ship them. The app is Glim.
